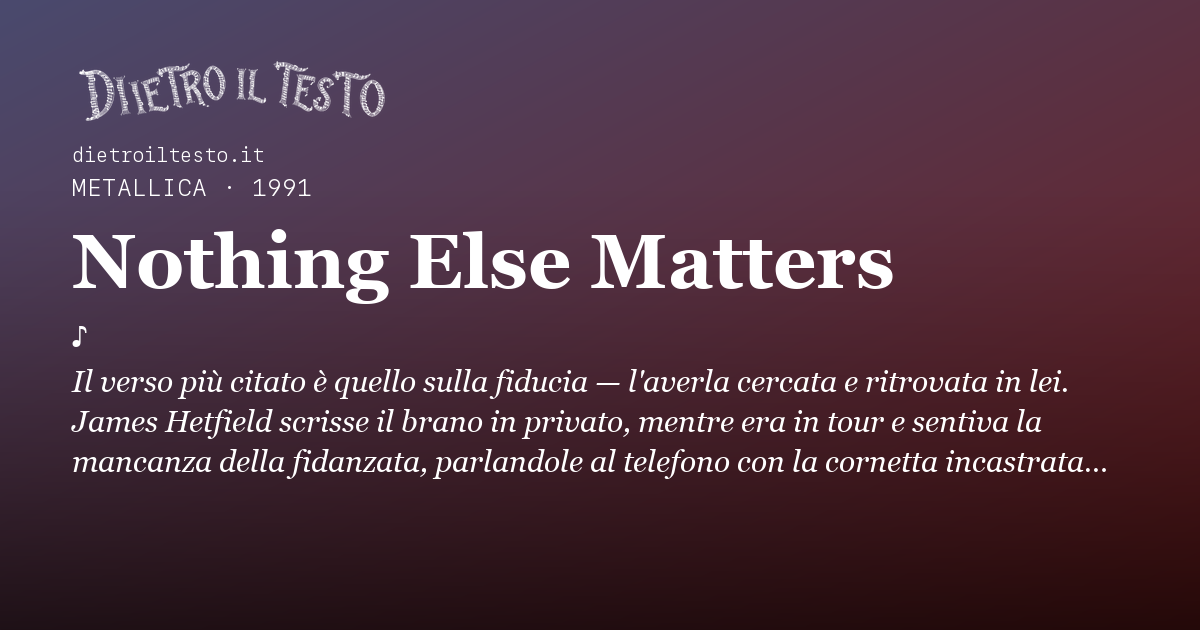
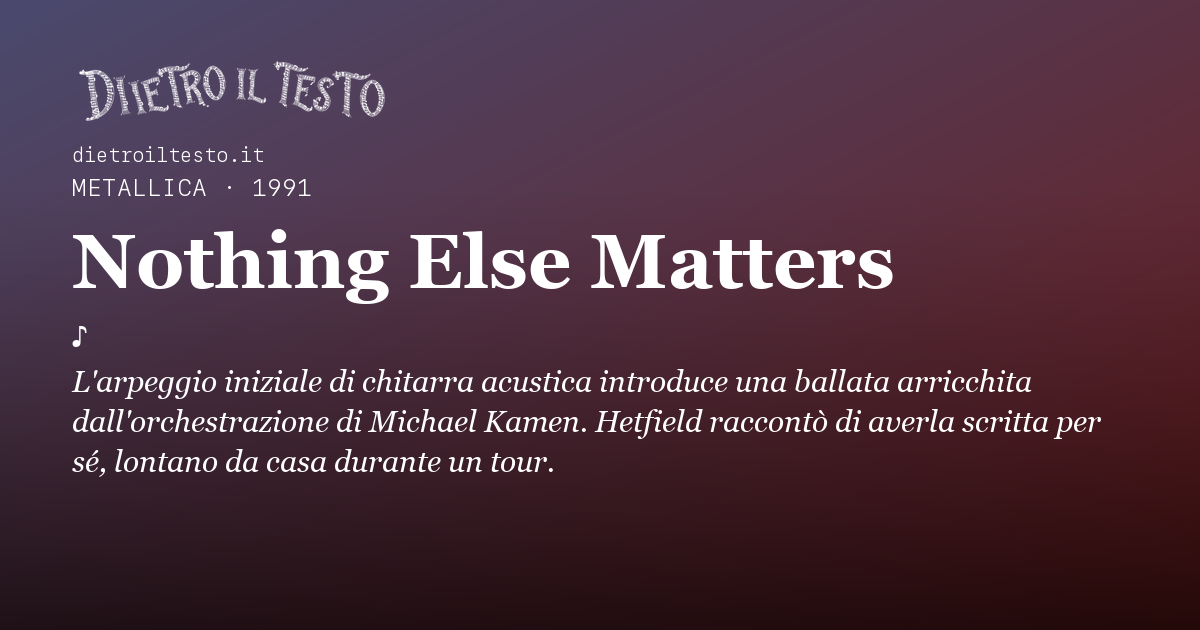
Corregge scheda Nothing Else Matters e fonti

Changed region(s): [[0.0617, 0.573, 0.925, 0.754]]

diff --git a/ROADMAP.md b/ROADMAP.md
@@ -4165,3 +4165,13 @@ Nella copia separata è stata riscritta la frase iconica a livello di funzione d
 Il proprietario ha scritto «applica e procedi» dopo aver visto la proposta del §30. Il commit `c2279c74` è stato integrato con avanzamento diretto in `main` locale. Rigenerato il sito: 26 file pubblicabili sono cambiati, fra cui la pagina della canzone, le anteprime collegate, l'indice di ricerca e le sitemap. Tutti i file del pacchetto generato coincidono byte per byte con quelli della cartella principale. Il file non tracciato `SEO-LASTMOD-2026-09-21.md` conserva lo stesso hash SHA-256 precedente.
 
 **Controlli:** `check-coerenza`, `check-seo`, `check-link`, `check-filtri`, `check-nature` e `git diff --check` passano. La verifica visiva desktop e mobile della pagina e dell'immagine condivisibile è documentata al §30. La modifica è nella cartella principale locale; non è stata inviata a GitHub né pubblicata online. Le correzioni di altre schede e le proposte di immagini restano in copie separate.
+
+## 40. Proposta separata: correzione di Nothing Else Matters, 1 ottobre 2026
+
+Il rapporto indipendente `rapporti/orario/44-nothing-else-matters.md` segnala nella frase iconica una traduzione parziale di un verso (P3), un'intervista attribuita all'anno sbagliato e dettagli biografici non verificati. Segnala inoltre il conteggio Spotify arrotondato, collegato alla pagina generale di Kworb invece che a un dato del brano. Il rapporto è stato trattato come segnalazione: sono state riaperte le fonti pertinenti prima di modificare la scheda.
+
+Nella copia separata la frase iconica descrive ora l'arpeggio e l'arrangiamento senza riprodurre o tradurre il testo. Il corpo distingue l'[album del 1991](https://www.metallica.com/history/) dal [singolo del 20 aprile 1992](https://www.metallica.com/releases/singles/?srule=old-to-new), attribuisce la composizione a [Hetfield e Ulrich](https://www.metallica.com/songs/nothing-else-matters.html) e riporta solo il racconto di Hetfield documentato da [American Songwriter](https://americansongwriter.com/behind-metallicas-vulnerable-hit-nothing-else-matters/). I [crediti della ristampa ufficiale](https://www.metallica.com/releases/reissues/metallica-remastered-deluxe-box-set-reissue.html) sostengono i ruoli di Bob Rock e Michael Kamen. Eliminati il presunto dettaglio della cornetta, l'intervista del 2013, il primato e il conteggio Spotify non documentati. La classificazione testuale è «Ballata rock», coerente con la storia ufficiale; la raccolta Metal resta invariata. La data `ultimaVerifica` non è stata aggiunta: questa è una correzione mirata, non una revisione completa della scheda.
+
+**Verifica.** Rigenerate 687 pagine più 404 e la sola immagine condivisibile `og/nothing-else-matters.png`, ispezionata senza troncamenti. Pagina controllata nel browser a 1280 e 390 px: testo e fonti presenti, nessuno scorrimento orizzontale o errore di console. Passano `check-coerenza`, `check-seo`, `check-link`, `check-attribuzioni --tutte` e `git diff --check`; il controllo delle attribuzioni mantiene 30 avvisi informativi preesistenti su altre schede. Catalogo invariato: 317 canzoni, 104 artisti, 251 album.
+
+**Stato:** proposta locale isolata, pronta per la revisione del proprietario. Nessun trasferimento nella cartella principale, push o pubblicazione. Non sono stati ricontrollati in questo lotto il collegamento Letras e l'identificativo Spotify, né tutte le affermazioni residue dell'archivio.
